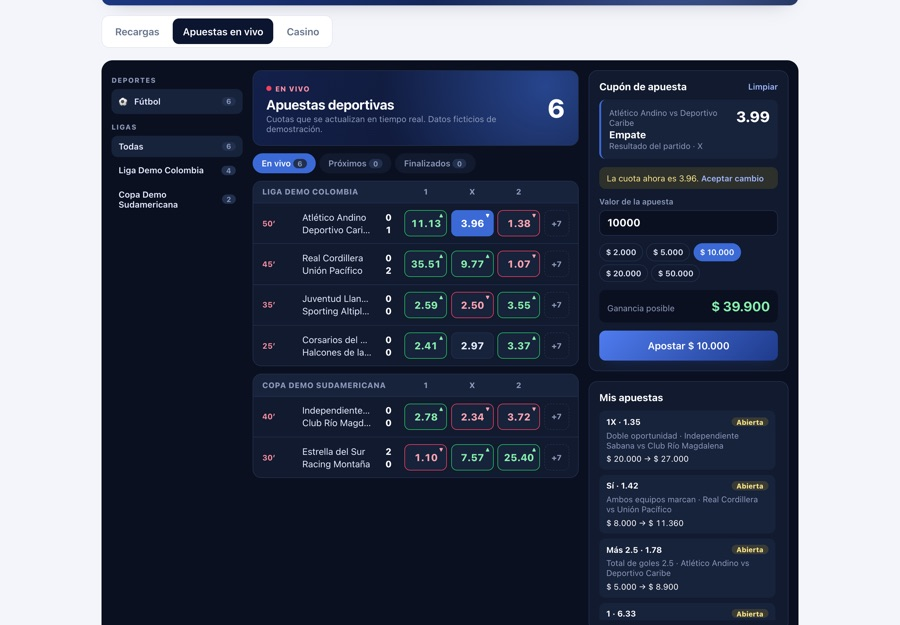
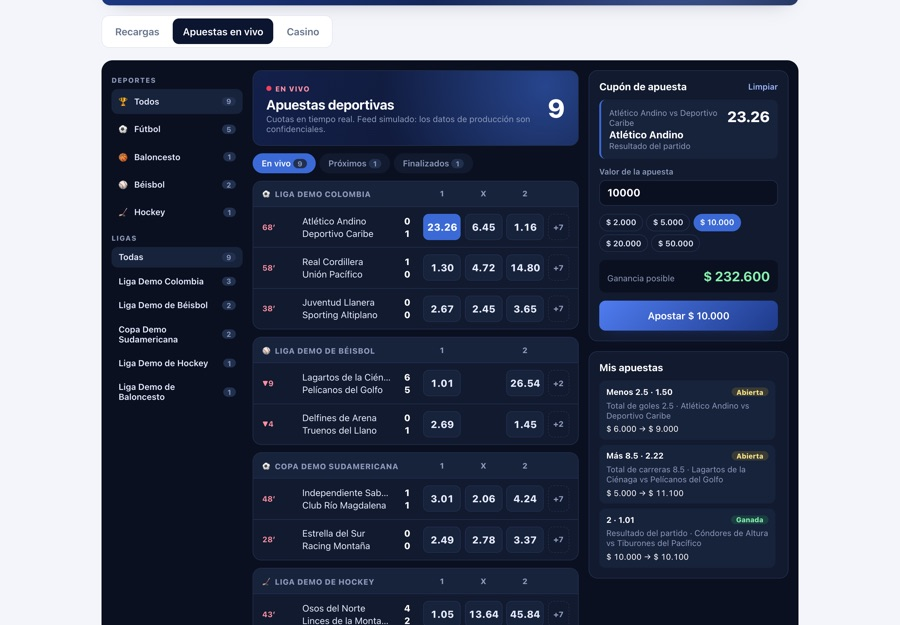
feat: NekoBet with four sports, live trackers and the slot machine; 54 + 54 + 15 tests

diff --git a/src/content.ts b/src/content.ts
@@ -74,7 +74,7 @@ export const hero = {
 };
 
 export const stats: Array<{ value: L; label: L }> = [
-  { value: { en: '121', es: '121' }, label: { en: 'automated tests across 3 portfolio systems (54 + 52 + 15)', es: 'pruebas automatizadas en 3 sistemas del portafolio (54 + 52 + 15)' } },
+  { value: { en: '123', es: '123' }, label: { en: 'automated tests across 3 portfolio systems (54 + 54 + 15)', es: 'pruebas automatizadas en 3 sistemas del portafolio (54 + 54 + 15)' } },
   { value: { en: 'Since 2020', es: 'Desde 2020' }, label: { en: 'professional software experience', es: 'experiencia profesional en software' } },
   { value: { en: '100', es: '100' }, label: { en: 'mobile Lighthouse on 3 routes, measured 1 Nov 2026', es: 'Lighthouse móvil en 3 rutas, medido el 1 nov. 2026' } },
   { value: { en: 'C1', es: 'C1' }, label: { en: 'English · native Spanish and Italian', es: 'inglés · español e italiano nativos' } },
@@ -460,22 +460,22 @@ export const projects: Project[] = [
     accent: '#2b59c3',
     cover: '/media/nekobet-cover.jpg',
     oneLiner: {
-      en: 'A live sportsbook with four markets per match, a casino with slot machines and prepaid top-ups, all on one store balance that stays correct under concurrent requests, retries, provider timeouts and reversals.',
-      es: 'Apuestas en vivo con cuatro mercados por partido, un casino con tragamonedas y recargas prepagadas, todo sobre un saldo por tienda que se mantiene correcto ante solicitudes simultáneas, reintentos, timeouts y reversos de proveedores.',
+      en: 'A real-time sportsbook for football, basketball, baseball and ice hockey, a casino with slot machines and prepaid top-ups, all on one store balance that stays correct under concurrent requests, retries, provider timeouts and reversals.',
+      es: 'Apuestas en tiempo real de fútbol, baloncesto, béisbol y hockey, un casino con tragamonedas y recargas prepagadas, todo sobre un saldo por tienda que se mantiene correcto ante solicitudes simultáneas, reintentos, timeouts y reversos de proveedores.',
     },
     purpose: {
-      en: 'A point-of-sale network where every store sells live sports bets, casino games and prepaid top-ups from one balance, from a portal or a partner API. Odds, games and the carrier are simulated with fictitious data; the engineering goal is a balance that never goes wrong.',
-      es: 'Una red de puntos de venta donde cada tienda vende apuestas en vivo, juegos de casino y recargas desde un mismo saldo, por un portal o una API de aliados. Cuotas, juegos y operador son simulados con datos ficticios; el objetivo de ingeniería es un saldo que nunca falla.',
+      en: 'A point-of-sale network where every store sells live sports bets, casino games and prepaid top-ups from one balance, from a portal or a partner API. Everything runs in real time; the production platforms I worked on and their data are confidential, so this public version uses a simulated feed. The engineering goal is a balance that never goes wrong.',
+      es: 'Una red de puntos de venta donde cada tienda vende apuestas en vivo, juegos de casino y recargas desde un mismo saldo, por un portal o una API de aliados. Todo corre en tiempo real; las plataformas de producción en las que trabajé y sus datos son confidenciales, así que esta versión pública usa un feed simulado. El objetivo de ingeniería es un saldo que nunca falla.',
     },
     myWork: [
-      { en: 'Sportsbook: a simulated odds feed with one leader that prices four markets per match from one goal model, SSE to the browser, ODDS_CHANGED refusals and settlement of every market paid once.', es: 'Apuestas: un feed de cuotas simulado con un solo líder que calcula cuatro mercados por partido con un modelo de goles, SSE al navegador, rechazo por ODDS_CHANGED y liquidación de cada mercado pagada una vez.' },
+      { en: 'Sportsbook for four sports, each with its own clock and scoring model (Poisson goals and runs, a normal model of points), one feed leader, SSE to the browser, ODDS_CHANGED refusals and every market settled once.', es: 'Apuestas de cuatro deportes, cada uno con su reloj y modelo de puntuación (goles y carreras Poisson, puntos con un modelo normal), un solo líder del feed, SSE al navegador, rechazo por ODDS_CHANGED y cada mercado liquidado una vez.' },
       { en: 'Casino: a seamless wallet with idempotent, HMAC-signed provider callbacks and rollback tombstones; a lobby of five fictitious games with an animated slot machine.', es: 'Casino: billetera seamless con callbacks del proveedor idempotentes y firmados con HMAC, y registro de reversos anticipados; un lobby de cinco juegos ficticios con una tragamonedas animada.' },
       { en: 'Balance and ledger: one conditional UPDATE, CHECK constraints and append-only movements; idempotent sales with per-key advisory locks.', es: 'Saldo y libro contable: un UPDATE condicional, restricciones CHECK y movimientos de solo inserción; ventas idempotentes con bloqueo por llave.' },
       { en: 'An HMAC-signed B2B API for partners, a login lockout, and a React cashier, sportsbook, casino and admin; CI publishes images that Argo CD deploys in OpsCircuit.', es: 'Una API B2B firmada con HMAC para aliados, bloqueo de login, y en React la caja, las apuestas, el casino y la administración; el CI publica imágenes que Argo CD despliega en OpsCircuit.' },
     ],
     metrics: [
-      { en: '52 tests', es: '52 pruebas' },
-      { en: '4 live markets per match', es: '4 mercados en vivo por partido' },
+      { en: '54 tests', es: '54 pruebas' },
+      { en: '4 sports live', es: '4 deportes en vivo' },
       { en: '70 retries → 1 sale', es: '70 reintentos → 1 venta' },
     ],
     stack: ['NestJS', 'PostgreSQL', 'React', 'SSE', 'HMAC', 'Docker'],
@@ -488,7 +488,7 @@ export const projects: Project[] = [
       es: 'Las tiendas tienen un solo saldo prepagado para apuestas, casino y recargas. Dos ventas pueden gastar el mismo saldo, un reintento puede cobrar dos veces, las cuotas cambian mientras el cajero decide, el proveedor de juegos reintenta o revierte llamadas y el operador puede no responder.',
     },
     built: [
-      { en: 'A live sportsbook: match result, double chance, total goals 2.5 and both teams to score, priced from one goal model, with an event page for every match.', es: 'Apuestas en vivo: resultado, doble oportunidad, total de goles 2.5 y ambos marcan, con cuotas de un mismo modelo de goles y una página por partido.' },
+      { en: 'A real-time sportsbook for football, basketball, baseball and ice hockey: results, double chance, totals and both teams to score, with overtime and extra innings, and an event page for every game.', es: 'Apuestas en tiempo real de fútbol, baloncesto, béisbol y hockey: resultados, doble oportunidad, totales y ambos marcan, con prórrogas y entradas extra, y una página por partido.' },
       { en: 'Bets refused when the odds moved; every market settled from the final score and paid once.', es: 'Apuestas rechazadas si la cuota cambió; cada mercado se liquida con el marcador final y se paga una sola vez.' },
       { en: 'A seamless-wallet casino with idempotent provider callbacks and rollback tombstones; slot machines whose reels show the provider\'s outcome.', es: 'Un casino con billetera seamless, callbacks idempotentes y registro de reversos anticipados; tragamonedas cuyos rodillos muestran el resultado del proveedor.' },
       { en: 'Check and debit in one conditional UPDATE, a mandatory Idempotency-Key, an append-only ledger and an HMAC-SHA256 partner API with an IP allowlist.', es: 'Verificación y débito en un UPDATE condicional, Idempotency-Key obligatoria, libro contable de solo inserción y una API de aliados con HMAC-SHA256 y lista blanca de IP.' },
@@ -499,7 +499,7 @@ export const projects: Project[] = [
       { en: 'A bet carries the odds the cashier saw; a moved price is refused', es: 'La apuesta lleva la cuota que vio el cajero; si cambió, se rechaza' },
     ],
     proof: [
-      { en: '52 automated tests; multi-arch images published after CI', es: '52 pruebas automatizadas; imágenes multiarquitectura publicadas tras el CI' },
+      { en: '54 automated tests; multi-arch images published after CI', es: '54 pruebas automatizadas; imágenes multiarquitectura publicadas tras el CI' },
       { en: 'Local experiment: 70 concurrent sales, balance for 50, exactly 50 approved', es: 'Experimento local: 70 ventas simultáneas, saldo para 50, exactamente 50 aprobadas' },
       { en: '70 concurrent retries of one key create one sale', es: '70 reintentos simultáneos de una llave crean una sola venta' },
     ],
@@ -527,14 +527,15 @@ export const projects: Project[] = [
       },
     ],
     verification: [
-      { check: { en: 'Unit and integration tests', es: 'Pruebas unitarias y de integración' }, result: { en: '52 passing in CI', es: '52 aprobadas en CI' }, href: `${repo('nekobet')}/actions` },
+      { check: { en: 'Unit and integration tests', es: 'Pruebas unitarias y de integración' }, result: { en: '54 passing in CI', es: '54 aprobadas en CI' }, href: `${repo('nekobet')}/actions` },
       { check: { en: 'Betting and casino', es: 'Apuestas y casino' }, result: { en: 'Odds-changed refusal, every market settled once, wallet replays', es: 'Rechazo por cambio de cuota, cada mercado liquidado una vez, reintentos de billetera' }, href: `${repo('nekobet')}/blob/main/backend/test/e2e/betting.e2e-spec.ts` },
       { check: { en: 'Concurrency experiment', es: 'Experimento de concurrencia' }, result: { en: 'Naive 70 approved, conditional UPDATE 50 (local, not a benchmark)', es: 'Versión ingenua 70, UPDATE condicional 50 (local, no es un benchmark)' }, href: `${repo('nekobet')}/blob/main/docs/concurrency-experiment.md` },
       { check: { en: 'Static analysis, secrets, dependencies', es: 'Análisis estático, secretos y dependencias' }, result: { en: 'CodeQL, Gitleaks and npm audit green', es: 'CodeQL, Gitleaks y npm audit en verde' }, href: `${repo('nekobet')}/actions` },
     ],
     screens: [
       { src: '/media/nekobet-betting.jpg', alt: { en: 'Live sportsbook: matches by league, moving 1X2 odds, a link to every market, bet slip and my bets', es: 'Apuestas en vivo: partidos por liga, cuotas 1X2 que se mueven, enlace a todos los mercados, cupón y mis apuestas' }, width: 1600, height: 1111 },
-      { src: '/media/nekobet-event.jpg', alt: { en: 'Event page: scoreboard and every market, with the bet slip', es: 'Página del partido: marcador y todos los mercados, con el cupón' }, width: 1600, height: 1111 },
+      { src: '/media/nekobet-event.jpg', alt: { en: 'Football event: live tracker on the pitch, scoreboard and every market', es: 'Partido de fútbol: tracker en vivo en la cancha, marcador y todos los mercados' }, width: 1600, height: 1111 },
+      { src: '/media/nekobet-basketball.jpg', alt: { en: 'Basketball event: court tracker by quarter, winner and total points', es: 'Partido de baloncesto: tracker en la cancha por cuarto, ganador y total de puntos' }, width: 1600, height: 1111 },
       { src: '/media/nekobet-casino.jpg', alt: { en: 'Casino lobby and a slot machine paying through the wallet', es: 'Lobby del casino y una tragamonedas pagando por la billetera' }, width: 1600, height: 1111 },
       { src: '/media/nekobet-cashier.jpg', alt: { en: 'Cashier: balance, top-ups and a refunded rejection', es: 'Caja: saldo, recargas y un rechazo reembolsado' }, width: 1600, height: 1111 },
       { src: '/media/nekobet-admin.jpg', alt: { en: 'Admin: points of sale, credits and network sales', es: 'Administración: puntos de venta, créditos y ventas de la red' }, width: 1600, height: 1111 },
@@ -542,13 +543,13 @@ export const projects: Project[] = [
     limitations: [
       { en: 'Reconciliation of PENDING sales is not implemented yet.', es: 'La conciliación de ventas en PENDING aún no está implementada.' },
       { en: 'HMAC secrets are stored in plain text; production would use a secrets manager.', es: 'Los secretos HMAC se guardan en texto plano; en producción irían en un gestor de secretos.' },
-      { en: 'Carrier, odds feed and game provider are simulated. Betting is a demonstration, not a licensed service (Colombia requires a Coljuegos license).', es: 'El operador, el feed de cuotas y el proveedor de juegos son simulados. Las apuestas son una demostración, no un servicio con licencia (en Colombia se requiere licencia de Coljuegos).' },
+      { en: 'Carrier, odds feed and game provider are simulated because the production platforms and their data are confidential. Betting is a demonstration, not a licensed service (Colombia requires a Coljuegos license).', es: 'El operador, el feed de cuotas y el proveedor de juegos son simulados porque las plataformas de producción y sus datos son confidenciales. Las apuestas son una demostración, no un servicio con licencia (en Colombia se requiere licencia de Coljuegos).' },
     ],
     localVsProd: {
       en: 'Runs locally with Docker Compose and on OpsCircuit’s kind cluster through Argo CD. The concurrency numbers come from a local, reproducible experiment, not from production traffic.',
       es: 'Corre en local con Docker Compose y en el clúster kind de OpsCircuit mediante Argo CD. Los números de concurrencia vienen de un experimento local y reproducible, no de tráfico de producción.',
     },
-    run: 'git clone https://github.com/vzuliani97/nekobet && cd nekobet\ncp .env.example .env\nmake up     # http://localhost:8081\nmake test   # 52 tests',
+    run: 'git clone https://github.com/vzuliani97/nekobet && cd nekobet\ncp .env.example .env\nmake up     # http://localhost:8081\nmake test   # 54 tests',
     diagrams: {
       context: { title: { en: 'System context', es: 'Contexto' }, status: 'MIXED', note: { en: 'Cashiers, partners and a simulated carrier; reconciliation planned.', es: 'Cajeros, aliados y un operador simulado; conciliación planeada.' } },
       containers: { title: { en: 'Containers', es: 'Contenedores' }, status: 'CURRENT', note: { en: 'nginx, a NestJS API and PostgreSQL.', es: 'nginx, una API NestJS y PostgreSQL.' } },

diff --git a/src/App.tsx b/src/App.tsx
@@ -213,7 +213,7 @@ function Home({ t }: { t: T }) {
 // Real numbers from each repository's CI and from Lighthouse; the lines appear one by one (instantly with reduced motion).
 const TERMINAL: Array<[string, string]> = [
   ['cd yamesi && make test', 'Tests: 54 passed, 54 total'],
-  ['cd nekobet && make test', 'Tests: 52 passed, 52 total'],
+  ['cd nekobet && make test', 'Tests: 54 passed, 54 total'],
   ['cd opscircuit/ops-automation && make test', '15 passed, 0 failed'],
   ['lighthouse vzuliani97.github.io --preset=mobile', 'Performance 100 · Accessibility 100 · Best practices 100 · SEO 100'],
 ];
